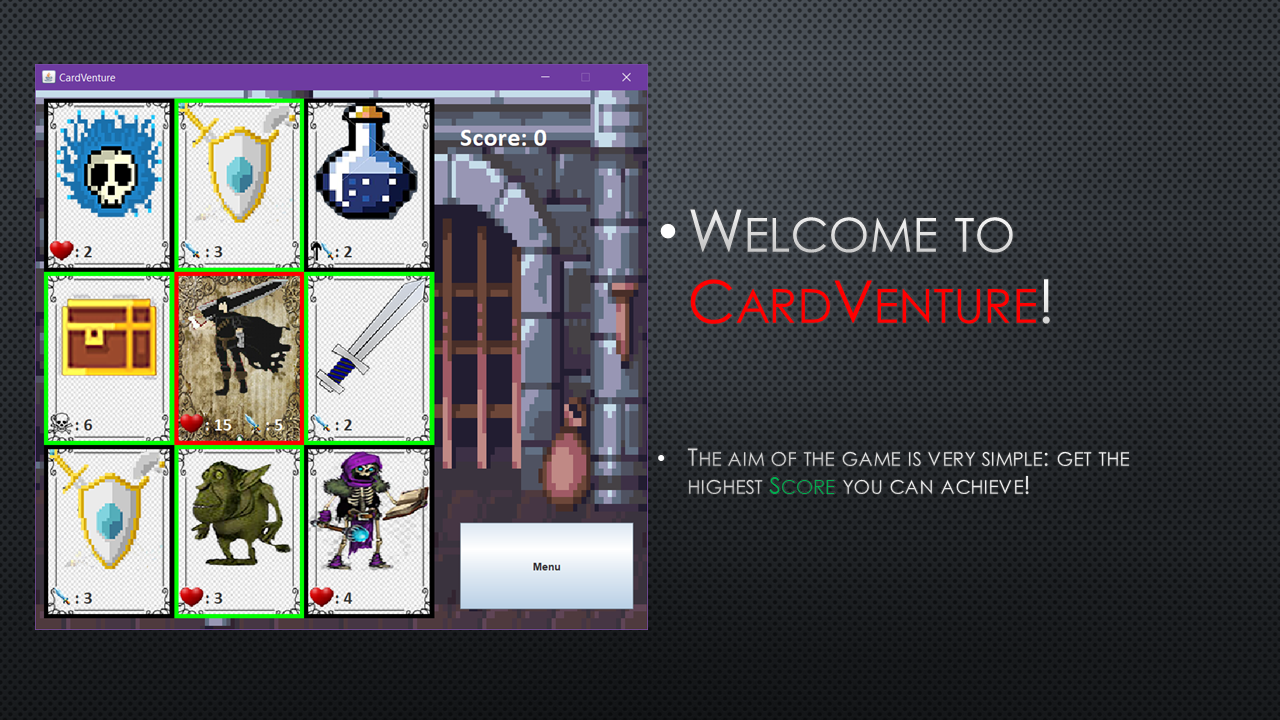
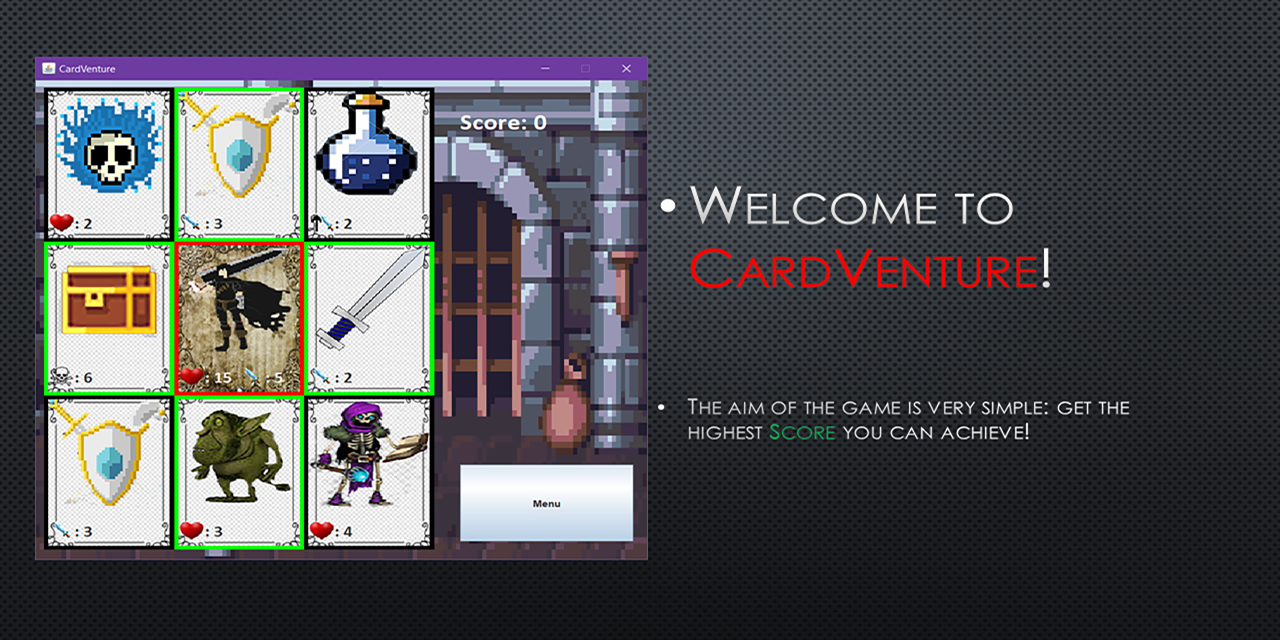
Tutorial size fixed, changed card grid's and game panel's backgrounds

diff --git a/PPS/src/_GUI/TutorialPanel.java b/PPS/src/_GUI/TutorialPanel.java
@@ -1,6 +1,5 @@
 package _GUI;
 
-import java.awt.Color;
 import java.awt.Graphics;
 import java.awt.Image;
 import java.awt.MediaTracker;
@@ -26,19 +25,19 @@ public class TutorialPanel extends JPanel implements ActionListener{
 	JFrame parent;
 	
 	JButton returnToMenu;
-	final Rectangle MENU_RECT = new Rectangle(600, 720, 100, 45);
+	final Rectangle MENU_RECT = new Rectangle(600, 640, 100, 45);
 	
 	JButton nextSlide; 
-	final Rectangle NEXT_RECT = new Rectangle(1150, 720, 100, 45);
+	final Rectangle NEXT_RECT = new Rectangle(1150, 640, 100, 45);
 	
 	JButton previousSlide;
-	final Rectangle PREVIOUS_RECT = new Rectangle(20, 720, 100, 45);
+	final Rectangle PREVIOUS_RECT = new Rectangle(20, 640, 100, 45);
 	
 	ImageIcon[] tutorialSlideShow;
 	int slideTotalNumber = 5;
 	
 	JLabel currentSlide;
-	final Rectangle SLIDE_RECT = new Rectangle(0, 0, 1280, 720);
+	final Rectangle SLIDE_RECT = new Rectangle(0, 0, 1280, 640);
 	
 	int currentSlideIndex;
 	

diff --git a/PPS/src/_GUI/GamePanel.java b/PPS/src/_GUI/GamePanel.java
@@ -36,7 +36,7 @@ public class GamePanel extends JPanel implements ActionListener{
 	final Rectangle SCORE_RECT = new Rectangle(490, 10,200,100);
 	
 	Image img;
-	String BACKGROUND_PATH = "resources/cardIcons/gamePanelBackground.png";
+	String BACKGROUND_PATH = "resources/cardIcons/GPBgroundNew.jpg";
 	
 	public GamePanel(MainFrame parent, MainCharacterCard mainCharacter) {
 		

diff --git a/PPS/src/_GUI/MainFrame.java b/PPS/src/_GUI/MainFrame.java
@@ -68,7 +68,8 @@ public class MainFrame extends JFrame implements ActionListener {
 			else if(e.getSource() == mainPanel.tutorialButton) {
 				tutorialPanel = new TutorialPanel(this);
 				
-				this.setSize(1280, 800);
+				//this.setSize(1280, 800);
+				this.setSize(1280, 725);
 				
 				changePaneTo(tutorialPanel);
 				tutorialPanel.returnToMenu.addActionListener(this);

diff --git a/PPS/src/_GUI/CardGrid.java b/PPS/src/_GUI/CardGrid.java
@@ -55,7 +55,7 @@ public class CardGrid extends JPanel implements MouseListener, MouseMotionListen
 	int score;
 
 	Image img;
-	final String BACKGROUND_PATH = "resources/cardIcons/cardGridBackground2.png";
+	final String BACKGROUND_PATH = "resources/cardIcons/CDBgroungNew.jpg";
 	
 	public CardGrid(GamePanel parent, MainCharacterCard mainCharacter) {
 
